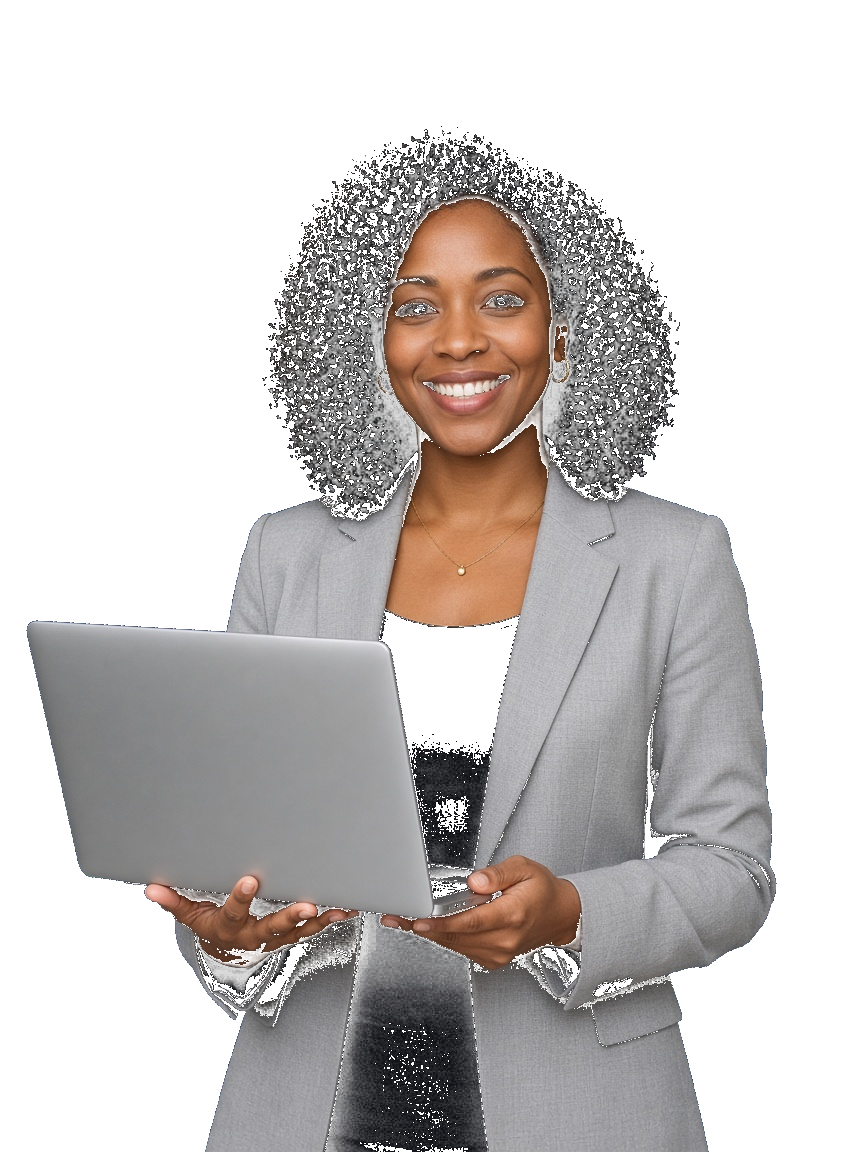
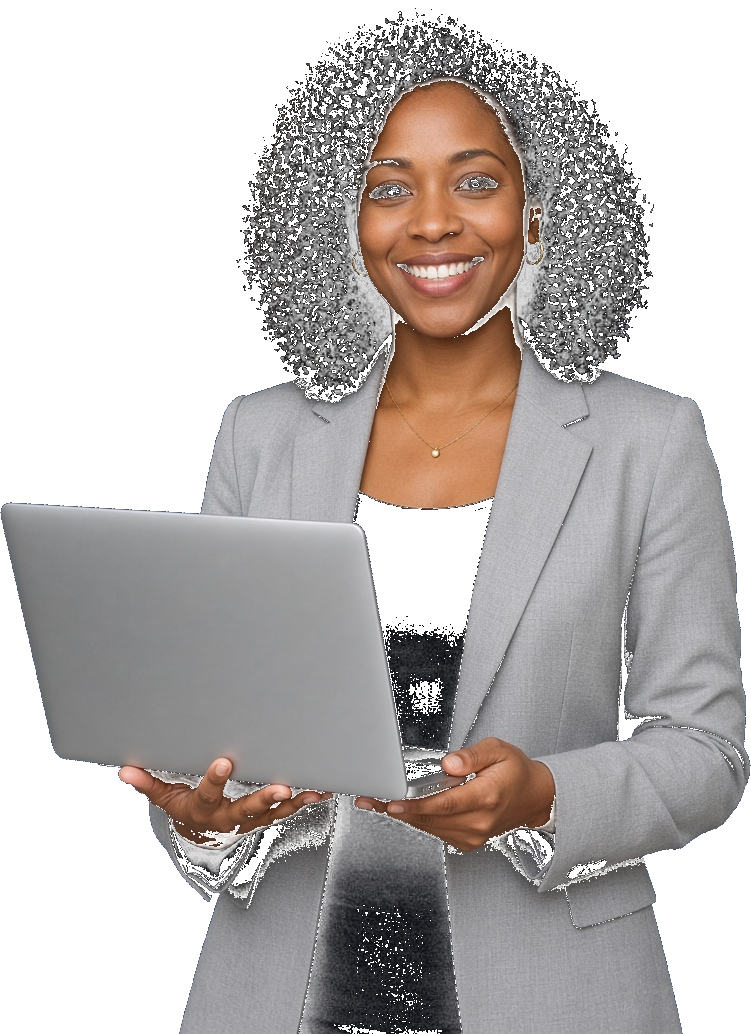
Anchor hero portrait to the section bottom and pad the copy column.
Tighten the cutout asset and give the left column bottom padding while the desktop figure stays flush with the hero edge.

diff --git a/src/components/home-hero.tsx b/src/components/home-hero.tsx
@@ -64,43 +64,57 @@ export function HomeHero({
     <section className="hero-surface relative overflow-hidden text-white">
       <div className="pointer-events-none absolute -left-24 top-8 h-72 w-72 rounded-full bg-blue-500/25 blur-3xl" />
       <div className="pointer-events-none absolute -right-32 top-1/4 h-96 w-96 rounded-full bg-violet-500/25 blur-3xl lg:right-0" />
-      <div className="relative mx-auto w-full max-w-[1320px] px-5 py-12 sm:px-8 lg:grid lg:min-h-[min(88vh,820px)] lg:grid-cols-[minmax(0,1.08fr)_minmax(0,0.92fr)] lg:items-center lg:gap-8 lg:py-14 xl:gap-12">
-        <div className="flex flex-col justify-center lg:col-start-1 lg:row-start-1 lg:py-6">
-          <p className="inline-flex w-fit items-center gap-2 rounded-full border border-white/20 bg-white/10 px-4 py-2 text-[10px] font-semibold uppercase tracking-[0.14em] text-white/90">
-            Qwik Technologies
-          </p>
-          <h1 className="mt-6 text-[2rem] font-semibold leading-[1.08] tracking-tight sm:text-[2.65rem] lg:text-[3.05rem] xl:text-[3.35rem]">
-            {headline.map((line, index) => (
-              <span key={line} className="block">
-                {index === headline.length - 1 ? (
-                  <span className="text-gradient-accent">{line}</span>
-                ) : (
-                  line
-                )}
-              </span>
+      <div className="relative mx-auto w-full max-w-[1320px] px-5 py-12 sm:px-8 lg:grid lg:min-h-[min(88vh,820px)] lg:grid-cols-[minmax(0,1.08fr)_minmax(0,0.92fr)] lg:items-stretch lg:gap-8 lg:pb-0 lg:pt-14 xl:gap-12">
+        <div className="flex flex-col justify-center gap-10 pb-12 lg:col-start-1 lg:justify-between lg:pb-14 lg:pt-6">
+          <div>
+            <p className="inline-flex w-fit items-center gap-2 rounded-full border border-white/20 bg-white/10 px-4 py-2 text-[10px] font-semibold uppercase tracking-[0.14em] text-white/90">
+              Qwik Technologies
+            </p>
+            <h1 className="mt-6 text-[2rem] font-semibold leading-[1.08] tracking-tight sm:text-[2.65rem] lg:text-[3.05rem] xl:text-[3.35rem]">
+              {headline.map((line, index) => (
+                <span key={line} className="block">
+                  {index === headline.length - 1 ? (
+                    <span className="text-gradient-accent">{line}</span>
+                  ) : (
+                    line
+                  )}
+                </span>
+              ))}
+            </h1>
+            <p className="mt-5 max-w-xl text-base leading-7 text-white/80 sm:text-lg lg:max-w-lg xl:max-w-xl">
+              {subline}
+            </p>
+            <div className="mt-8">
+              <HeroActions phone={phone} phoneHref={phoneHref} />
+            </div>
+          </div>
+
+          <div className="grid gap-3 sm:grid-cols-3">
+            {stats.map(({ value, label, icon: Icon }) => (
+              <div key={label} className="rounded-xl border border-white/15 bg-white/10 px-4 py-4 backdrop-blur-sm">
+                <p className="flex items-center gap-2 text-2xl font-bold text-white">
+                  <Icon className="text-sky-300" aria-hidden />
+                  {value}
+                </p>
+                <p className="mt-1 text-[10px] font-bold uppercase tracking-[0.12em] text-white/65">{label}</p>
+              </div>
             ))}
-          </h1>
-          <p className="mt-5 max-w-xl text-base leading-7 text-white/80 sm:text-lg lg:max-w-lg xl:max-w-xl">
-            {subline}
-          </p>
-          <div className="mt-8">
-            <HeroActions phone={phone} phoneHref={phoneHref} />
           </div>
         </div>
 
-        <div className="relative hidden lg:col-start-2 lg:row-span-2 lg:row-start-1 lg:flex lg:items-end lg:justify-center">
-          <div className="pointer-events-none absolute bottom-[8%] left-1/2 h-[75%] w-[95%] -translate-x-1/2 rounded-full bg-sky-400/18 blur-3xl" />
-          <div className="relative flex h-full w-full min-h-[560px] items-end justify-center overflow-visible pb-2 xl:min-h-[620px]">
+        <div className="relative hidden min-h-0 lg:col-start-2 lg:row-start-1 lg:block">
+          <div className="pointer-events-none absolute bottom-[12%] left-1/2 h-[70%] w-[95%] -translate-x-1/2 rounded-full bg-sky-400/18 blur-3xl" />
+          <div className="absolute inset-x-0 bottom-0 flex justify-center">
             <Image
               src={HERO_IMAGE}
               alt="Smiling professional holding a laptop"
               width={864}
               height={1152}
               priority
-              className="relative z-10 h-[min(82vh,720px)] w-auto max-w-[118%] translate-x-2 object-contain object-bottom drop-shadow-[0_28px_56px_rgba(0,0,0,0.4)] xl:h-[min(86vh,780px)] xl:max-w-[125%]"
+              className="relative z-10 block h-[min(85vh,760px)] w-auto max-w-[122%] translate-x-2 translate-y-6 object-contain object-bottom drop-shadow-[0_28px_56px_rgba(0,0,0,0.4)] xl:h-[min(88vh,820px)] xl:max-w-[128%] xl:translate-y-8"
               sizes="(min-width: 1024px) 48vw, 0px"
             />
-            <div className="absolute inset-x-0 bottom-6 z-20 flex flex-wrap justify-center gap-2 px-2 xl:bottom-8">
+            <div className="absolute inset-x-0 bottom-[max(1.75rem,8%)] z-20 flex flex-wrap justify-center gap-2 px-2">
               {pills.map((pill) => (
                 <span
                   key={pill}
@@ -111,18 +125,6 @@ export function HomeHero({
               ))}
             </div>
           </div>
-        </div>
-
-        <div className="mt-8 grid gap-3 sm:grid-cols-3 lg:col-start-1 lg:row-start-2 lg:mt-0">
-          {stats.map(({ value, label, icon: Icon }) => (
-            <div key={label} className="rounded-xl border border-white/15 bg-white/10 px-4 py-4 backdrop-blur-sm">
-              <p className="flex items-center gap-2 text-2xl font-bold text-white">
-                <Icon className="text-sky-300" aria-hidden />
-                {value}
-              </p>
-              <p className="mt-1 text-[10px] font-bold uppercase tracking-[0.12em] text-white/65">{label}</p>
-            </div>
-          ))}
         </div>
       </div>
     </section>
